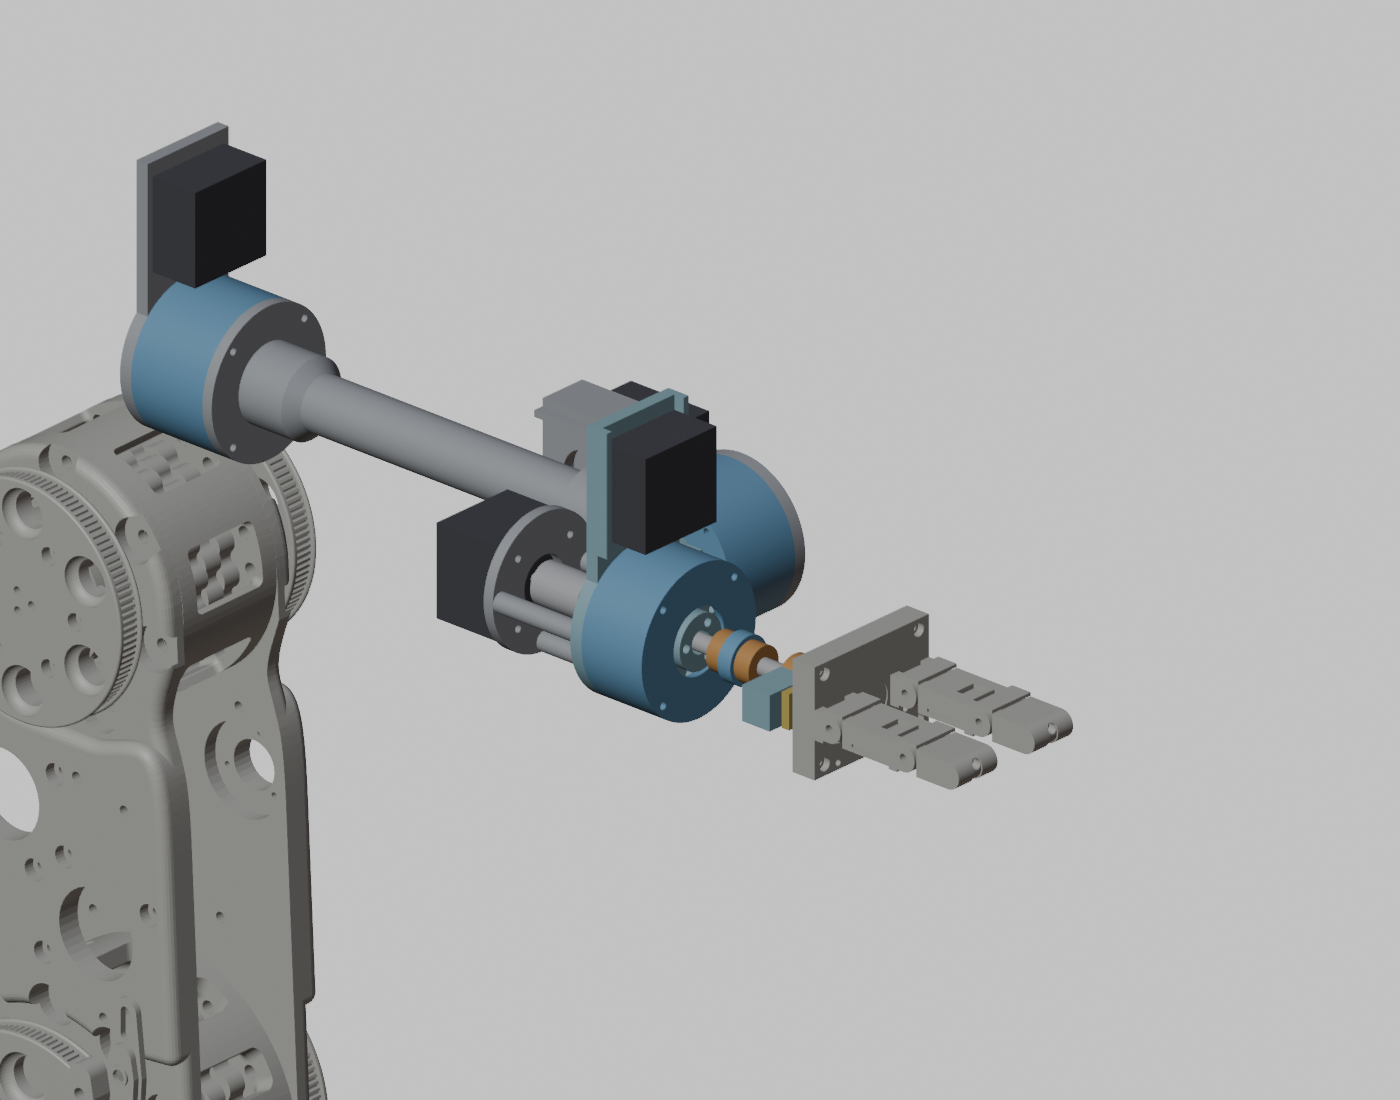
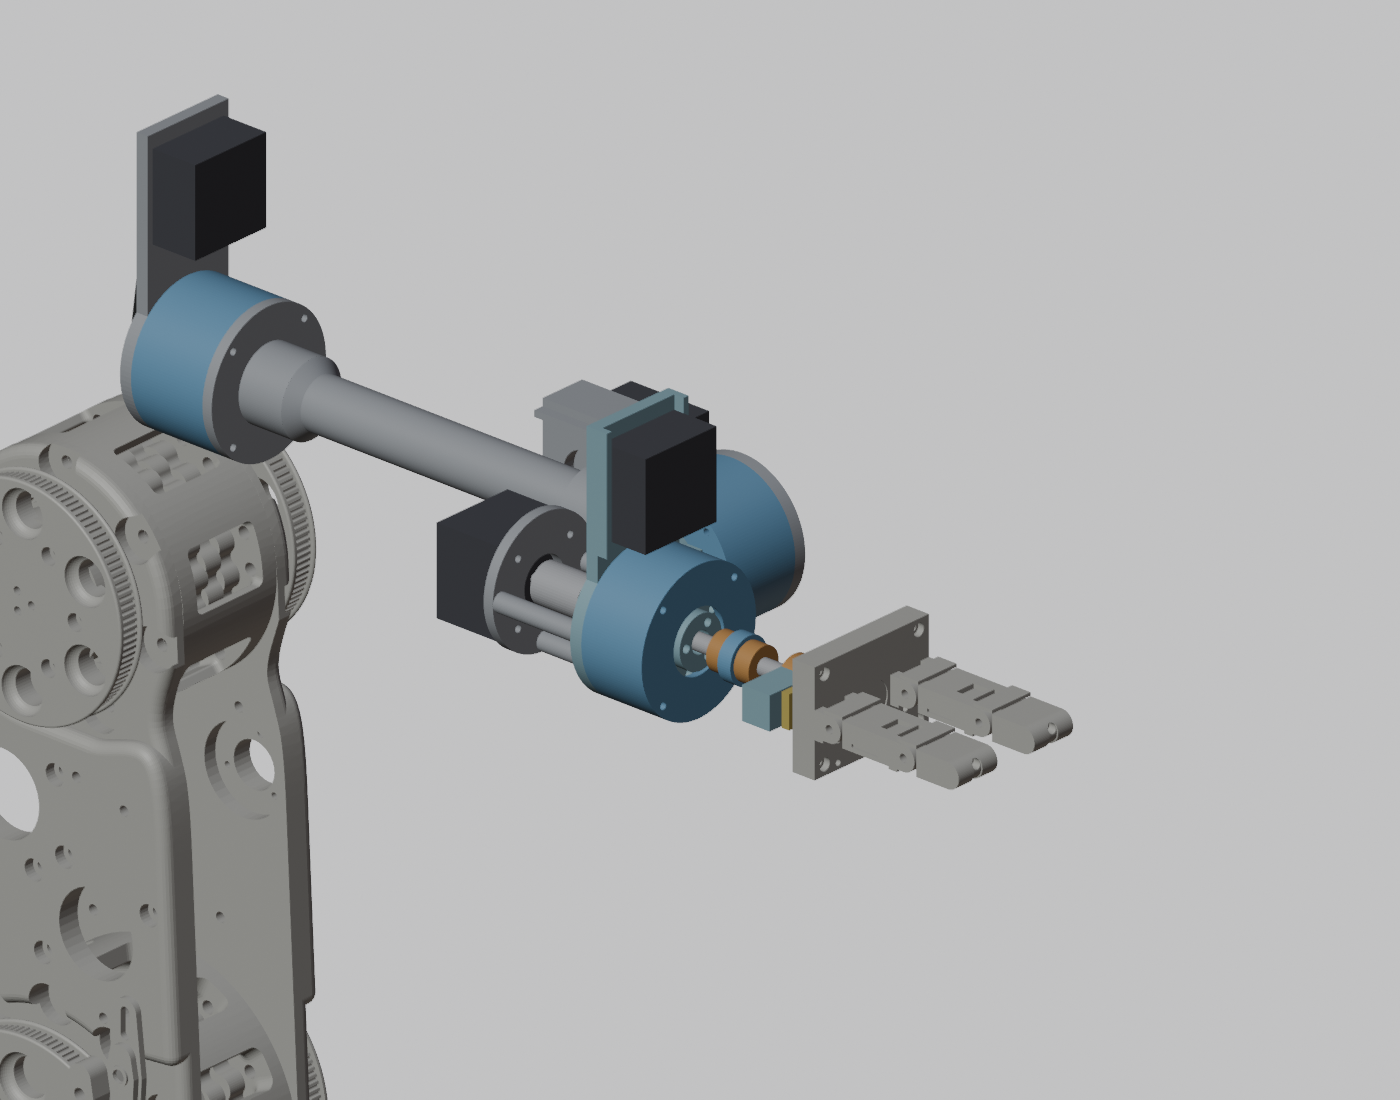
Lay out axis 4 at 60:1 and check its roll capacity
The offset-wrist layout now draws axis 4 on the 60T and 234 and asserts
that its worst-case roll load fits the projected capacity, so a heavier
head or tool fails the run instead of passing silently.

Changed region(s): [[0.0921, 0.0927, 0.215, 0.1855], [0.1229, 0.2164, 0.215, 0.2782]]

diff --git a/tools/blender/head_concept.py b/tools/blender/head_concept.py
@@ -169,7 +169,7 @@ def ring_prism(name, col, mat, m, r1, r2, c, z0, z1, t):
 
 
 def belted_drive(prefix, col, m, folder="20-1-hollow", plate=True, big=40, belt=188, outboard=False):
-    """Mount plate, big pulley (40T, or axis 5's 60T on the offset wrist), 20T, belt and pancake, with the motor
+    """Mount plate, big pulley (40T, or the 60T of axes 4 and 5 on the offset wrist), 20T, belt and pancake, with the motor
     beside the housing as on the POC mount."""
     c = round(C.belt_centre_distance(20, big, belt), 2)
     r_big = big / math.pi
@@ -209,7 +209,10 @@ def axis4_tube():
     col = AX4_COL
     m = frame((AX4_REAR_X, 0, ROLL_Z), (1, 0, 0), (0, 0, 1))
     cycloid("20-1-compact", "ax4", col, m)
-    belted_drive("ax4", col, m, "20-1-compact")
+    if OFFSET_WRIST:   # geared 60:1 like axis 5 for the head's roll load pitched sideways
+        belted_drive("ax4", col, m, "20-1-compact", big=F.AX4_TEETH, belt=F.AX4_BELT)
+    else:
+        belted_drive("ax4", col, m, "20-1-compact")
     place(L.cyl_z("ax4 Ø5 rod", 0, 0, 2.5, -23.5, 31.0, n=32), col, "steel", m)
     flip_back = Matrix.Diagonal((1, -1, -1, 1))
     parts = {"forearm-outer-tube": ("fixed", Matrix.Translation((0, 0, F.OUTER_X[0]))),
@@ -574,13 +577,15 @@ def offset_wrist_report(report):
     ax5_limit = capacity / 1.5
     worst = max(range(-170, 171, 5), key=lambda d: roll_torque_pitched(d, tip))
     report.update({"axis4_roll_torque_worst_nm": round(roll_torque_pitched(worst, tip), 2), "axis4_roll_worst_at_pitch_deg": worst,
-                   "axis4_roll_capacity_nm": MEASURED_NM_AT_40})
+                   "axis4_ratio": 20 * F.AX4_TEETH / 20, "axis4_roll_capacity_nm": round(MEASURED_NM_AT_40 * F.AX4_TEETH / 40, 2)})
+    report["axis4_roll_margin"] = round(report["axis4_roll_capacity_nm"] / report["axis4_roll_torque_worst_nm"], 2)
     report.update({"axis5_ratio": ratio, "axis5_capacity_nm": round(capacity, 2), "axis5_margin": round(capacity / t5, 2)})
     report.update({"pitch_x": PITCH_X, "ax6_offset_y": AX6_Y, "pitch_sweep_clash_deg": hits,
                    "axis5_torque_nm": round(t5, 2), "axis4_roll_torque_nm": round(roll, 2),
                    "head_mass_g": sum(PITCH_MASSES.values()) + sum(FIXED_HEAD_MASSES.values())})
     assert report["axis4_roll_torque_worst_nm"] >= report["axis4_roll_torque_nm"], "worst-case roll misses pitch 0"
     assert t5 <= ax5_limit, f"axis 5 needs {t5:.2f} N·m with a 200 g tool, over {ax5_limit:.2f}: bring it to the user (spec)"
+    assert report["axis4_roll_torque_worst_nm"] <= report["axis4_roll_capacity_nm"], "axis 4 can't hold the head pitched sideways"
 
 
 def check(z_motor):
